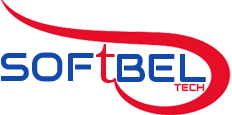
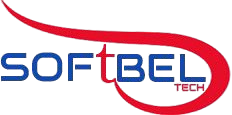
changed header colour

diff --git a/assets/css/main.css b/assets/css/main.css
@@ -166,12 +166,19 @@ h6 {
 }
 
 .header .logo {
-  line-height: 1;
+  /*line-height: 1;*/
 }
 
-.header .logo img {
+/*.header .logo img {
   max-height: 36px;
   margin-right: 8px;
+}*/
+
+.header .logo img {
+  width: 70%;
+  /* Adjusts the image to the full width of its container */
+  height: auto;
+  /* Maintains the image aspect ratio */
 }
 
 .header .logo h1 {
@@ -226,13 +233,13 @@ h6 {
 /* Index Page Header
 ------------------------------*/
 .index-page .header {
-  --background-color: rgba(0, 0, 0, 0);
+  --background-color: white;
 }
 
 /* Index Page Header on Scroll
 ------------------------------*/
 .index-page.scrolled .header {
-  --background-color: rgba(0, 0, 0, 0.8);
+  --background-color: white;
 }
 
 /*--------------------------------------------------------------
@@ -258,7 +265,7 @@ h6 {
 
   .navmenu a,
   .navmenu a:focus {
-    color: var(--nav-color);
+    color: black;
     padding: 18px 15px;
     font-size: 16px;
     font-family: var(--nav-font);
@@ -285,7 +292,7 @@ h6 {
   .navmenu li:hover>a,
   .navmenu .active,
   .navmenu .active:focus {
-    color: var(--nav-hover-color);
+    color: red;
   }
 
   .navmenu .dropdown ul {
